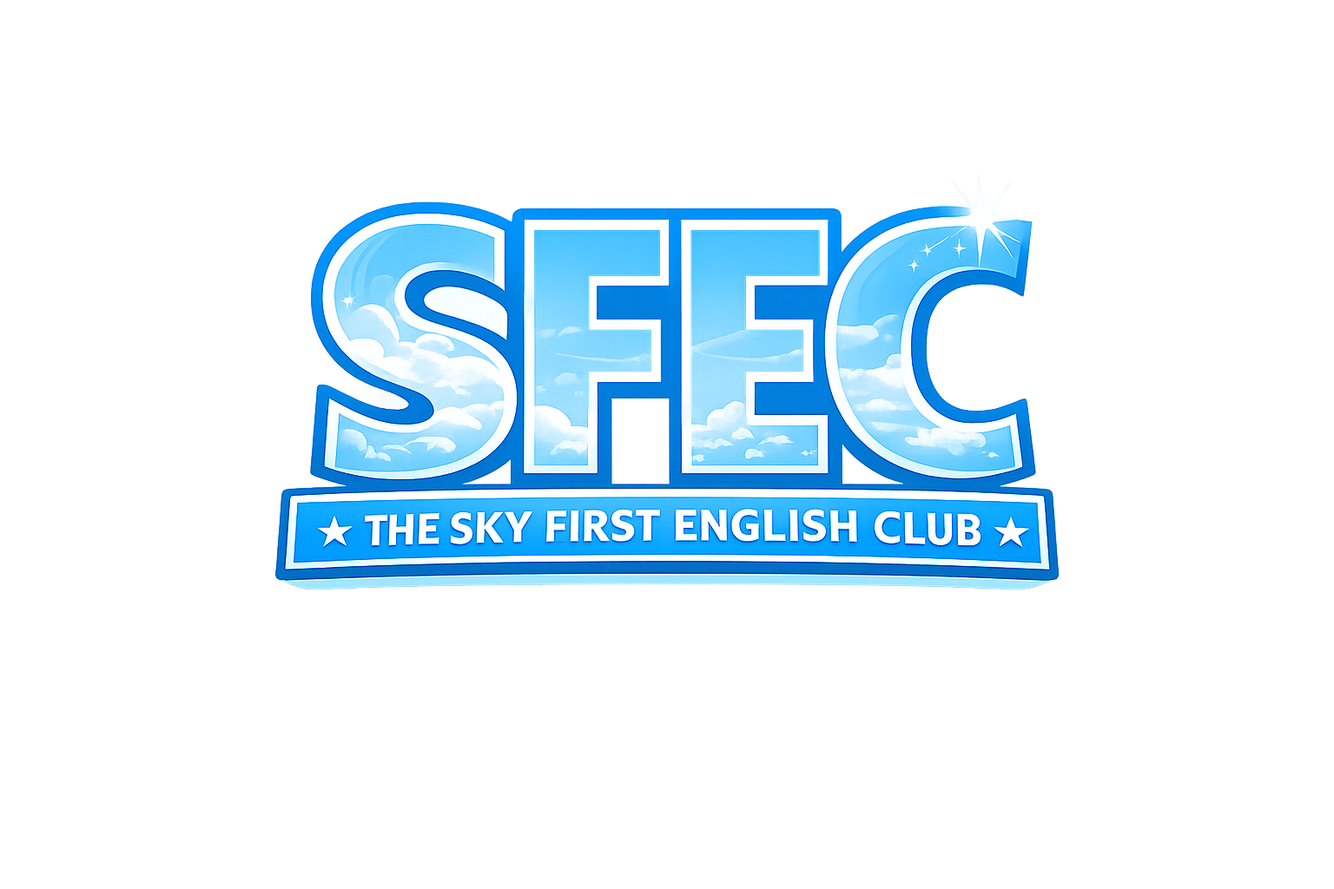
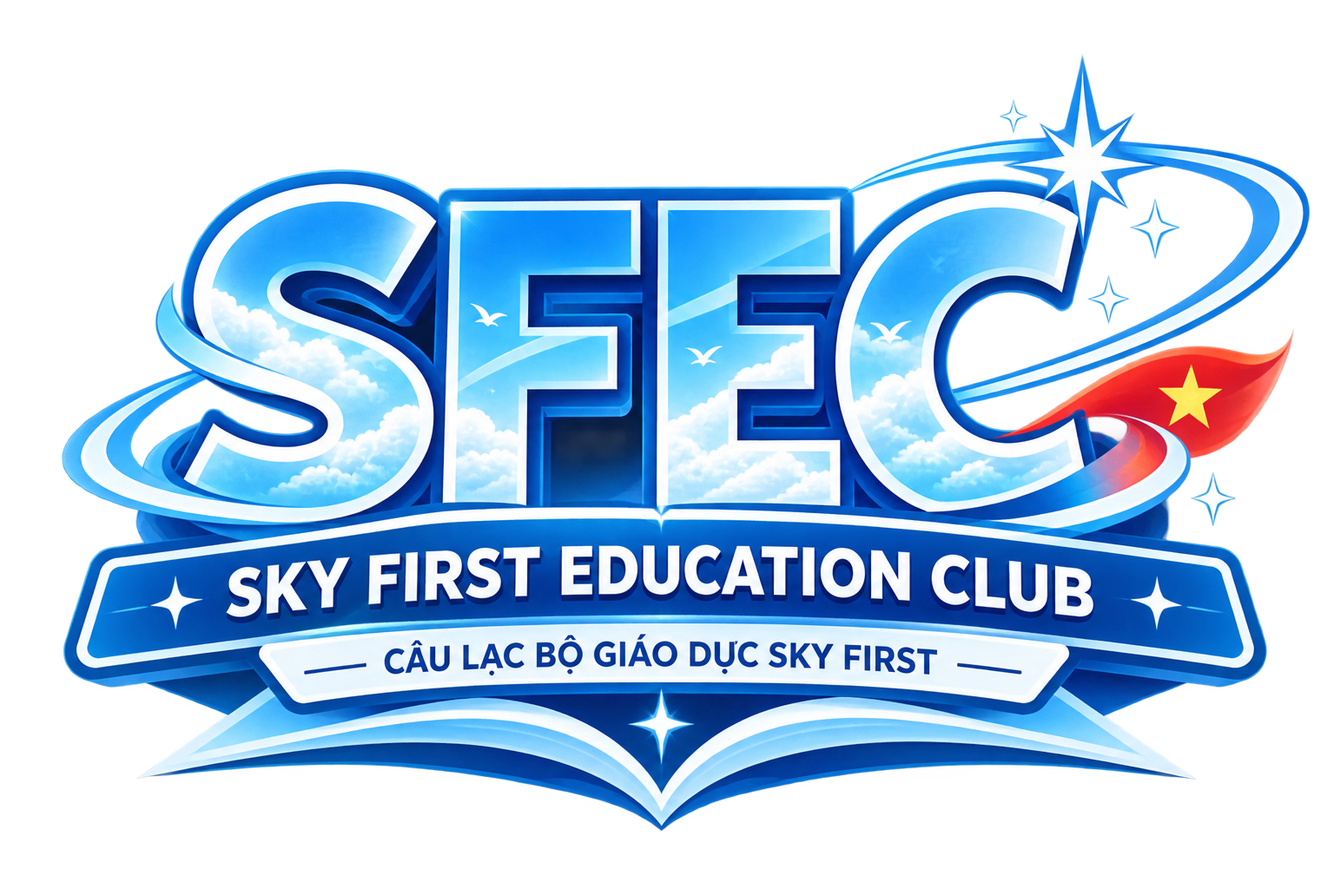
Add files via upload

diff --git a/sfec-main/public/app.js b/sfec-main/public/app.js
@@ -60,20 +60,20 @@ setTheme(localStorage.getItem("sfec_theme")||"light");
 accountBtn.onclick=()=>{if(state.user&&isAdmin(state.user)) location.hash="admin/dashboard"; else location.hash="login"};
 
 function hero(){
-  const title=E(state.config?.hero_title||"Học tiếng Anh. Kết nối trải nghiệm. Phát triển cùng SFEC.");
-  const text=E(state.config?.hero_text||"Website chính thức của The Sky First English Club (SFEC), nơi công bố các chương trình, lớp học, hoạt động tiếng Anh và thông tin xác minh Giấy chứng nhận.");
-  return `<section class="hero hero-official"><div class="hero-copy"><span class="eyebrow">THE SKY FIRST ENGLISH CLUB · SKY FIRST NETWORK</span><div class="hero-org">SFEC · ENGLISH LEARNING & ACTIVITIES</div><h1>${title}</h1><p>${text}</p><p class="hero-owner"><b>SFEC là đơn vị trực thuộc Sky First Network</b>, tập trung tổ chức các chương trình, lớp học và hoạt động liên quan đến Tiếng Anh. SFEC không duy trì cơ cấu Phòng/Ban nội bộ; các công tác hỗ trợ được phối hợp thông qua hệ thống chung của Sky First Network.</p><p class="hero-slogan"><b>${E(state.config?.slogan||"Learn · Connect · Grow")}</b></p><div class="actions"><a class="primary" href="#classes">Khám phá chương trình</a><a class="secondary" href="#lookup">Tra cứu GCN</a><a class="hero-link" href="#about">Giới thiệu SFEC →</a></div></div></section>`;
+  const title=E(state.config?.hero_title||"Kết nối giáo dục. Khơi mở tiềm năng. Phát triển cùng SFEC.");
+  const text=E(state.config?.hero_text||"Không gian giáo dục đa lĩnh vực của SFEC, kết nối người học với chương trình, hoạt động và cơ hội phát triển năng lực.");
+  return `<section class="hero hero-official"><div class="hero-copy"><span class="eyebrow">SKY FIRST EDUCATION CLUB · SKY FIRST NETWORK</span><div class="hero-org">SFEC · EDUCATION & DEVELOPMENT</div><h1>${title}</h1><p>${text}</p><p class="hero-owner"><b>SFEC là đơn vị trực thuộc Sky First Network</b>, phát triển các chương trình giáo dục, lớp học, hoạt động học thuật, kỹ năng và chia sẻ tri thức phù hợp với định hướng chung của Sky First Network.</p><p class="hero-slogan"><b>${E(state.config?.slogan||"Learn · Connect · Grow")}</b></p><div class="actions"><a class="primary" href="#classes">Khám phá chương trình</a><a class="secondary" href="#lookup">Tra cứu GCN</a><a class="hero-link" href="#about">Giới thiệu SFEC →</a></div></div></section>`;
 }
 async function renderHome(){
   try{
     const custom=await api("/api/public/pages/home");
     if(custom?.item?.body_html){const x=custom.item;if(x.seo_title)document.title=x.seo_title;app.innerHTML=hero()+`<section class="cms-public-body">${x.body_html}</section>`;return;}
   }catch{}
-  app.innerHTML=hero()+`<div class="section-kicker" style="margin-top:54px">SFEC HÔM NAY</div><h2 class="section-title" style="margin-top:8px">Tập trung vào Tiếng Anh, tinh gọn trong vận hành</h2><div class="grid3">
-  ${quickCard("📘","Chương trình Tiếng Anh","Theo dõi các lớp học, chuyên đề và chương trình đang được SFEC tổ chức.","#classes")}
-  ${quickCard("✨","Hoạt động","Các hoạt động, workshop và không gian thực hành Tiếng Anh của SFEC.","#events")}
+  app.innerHTML=hero()+`<div class="section-kicker" style="margin-top:54px">SFEC HÔM NAY</div><h2 class="section-title" style="margin-top:8px">Mở rộng cơ hội học tập và phát triển</h2><div class="grid3">
+  ${quickCard("📘","Chương trình giáo dục","Khám phá các chương trình học tập và đào tạo thuộc nhiều lĩnh vực khi được triển khai.","#classes")}
+  ${quickCard("✨","Hoạt động","Workshop, tọa đàm và hoạt động phát triển kỹ năng của SFEC.","#events")}
   ${quickCard("✓","Xác minh GCN","Kiểm tra Giấy chứng nhận được ghi nhận trên hệ thống SFEC.","#lookup")}
-  </div><div class="simple-note"><b>Mô hình vận hành tinh gọn</b><p>SFEC tập trung vào chuyên môn Tiếng Anh và không tổ chức các Phòng/Ban nội bộ. Hành chính, nhân sự, truyền thông, đối ngoại và các nhu cầu hỗ trợ khác được phối hợp với Sky First Network theo phân công.</p></div><h2 class="section-title">Bản tin SFEC</h2><div class="grid" id="homeNews"></div>`;
+  </div><div class="simple-note"><b>Định hướng giáo dục đa lĩnh vực</b><p>SFEC phát triển các chương trình học tập, đào tạo, kỹ năng, hoạt động học thuật và chia sẻ tri thức; các hoạt động cụ thể được công bố theo kế hoạch triển khai thực tế.</p></div><h2 class="section-title">Bản tin SFEC</h2><div class="grid" id="homeNews"></div>`;
   try{const d=await api("/api/public/news");document.getElementById("homeNews").innerHTML=(d.items||[]).slice(0,3).map(newsCard).join("")||`<div class="card muted">Chưa có bản tin.</div>`}catch{}
 }
 function quickCard(icon,title,desc,href){return `<div class="card feature-card"><div class="feature-icon" aria-hidden="true">${icon}</div><h3>${E(title)}</h3><p class="muted">${E(desc)}</p><a class="secondary" href="${href}">Xem chi tiết →</a></div>`}
@@ -82,10 +82,10 @@ function newsBody(body){return E(body||"").replace(/\r?\n/g,"<br>")}
 function newsCard(n){return `<article class="card news-card"><span class="pill">${E((n.published_at||"").slice(0,10))}</span><h3>${E(n.title)}</h3><p class="muted news-excerpt">${E(newsExcerpt(n.body))}</p><a class="secondary" href="#news/${encodeURIComponent(n.id)}">Đọc bản tin →</a></article>`}
 async function renderInfoPage(kind){
   const pages={
-    about:{k:"GIỚI THIỆU SFEC",t:"Một không gian dành cho việc học và sử dụng Tiếng Anh",b:`<div class="article-lead"><p><b>The Sky First English Club (SFEC)</b> là đơn vị trực thuộc <b>Sky First Network (SFN)</b>, tập trung tổ chức các lớp học, chương trình, chuyên đề và hoạt động liên quan đến Tiếng Anh.</p></div><h2>SFEC tập trung vào điều gì?</h2><p>SFEC hướng đến những hoạt động có nội dung rõ ràng, phù hợp với người học và tạo thêm cơ hội thực hành Tiếng Anh. Tùy từng giai đoạn, SFEC có thể triển khai lớp học, hoạt động giao tiếp, phát âm, từ vựng, kỹ năng, chuyên đề học thuật hoặc những chương trình Tiếng Anh phù hợp với định hướng chung.</p><h2>Mô hình tinh gọn</h2><p>SFEC không duy trì cơ cấu Phòng/Ban nội bộ và không vận hành như một tổ chức độc lập. Các công tác hành chính, nhân sự, truyền thông, đối ngoại, công nghệ và hỗ trợ vận hành khi phát sinh được phối hợp thông qua cơ cấu chung của Sky First Network theo phân công.</p><h2>Website SFEC</h2><p>Website này là kênh công khai thông tin chương trình, hoạt động, bản tin và tra cứu Giấy chứng nhận. Website không phải cổng học viên và không cung cấp tài khoản học viên/thành viên. Khu vực đăng nhập chỉ dành cho người được cấp quyền quản trị hệ thống.</p>`},
-    journey:{k:"HÀNH TRÌNH SFEC",t:"Từ một câu lạc bộ đến mô hình chuyên môn tinh gọn",b:`<p>SFEC được xây dựng từ định hướng tạo môi trường học và thực hành Tiếng Anh. Qua quá trình hoạt động, mô hình vận hành được điều chỉnh theo hướng tinh gọn hơn để tập trung nguồn lực cho chuyên môn và trải nghiệm của các chương trình.</p><h2>Giai đoạn hiện tại</h2><p>SFEC tập trung tổ chức các mảng liên quan đến Tiếng Anh, không duy trì hệ thống Phòng/Ban riêng. Những chức năng hỗ trợ không thuộc chuyên môn Tiếng Anh được phối hợp ở cấp Sky First Network.</p>`},
-    values:{k:"ĐỊNH HƯỚNG",t:"Học thật · Thực hành thật · Vận hành tinh gọn",b:`<h2>Chuyên môn là trọng tâm</h2><p>Mỗi chương trình của SFEC cần hướng đến giá trị học tập hoặc thực hành Tiếng Anh cụ thể, có nội dung phù hợp và thông tin rõ ràng.</p><h2>Tinh gọn và phối hợp</h2><p>SFEC không tạo thêm bộ máy nội bộ khi các chức năng đó đã có thể được hỗ trợ bởi Sky First Network. Việc phối hợp được thực hiện theo nhu cầu thực tế của từng chương trình.</p><h2>Thông tin có thể kiểm chứng</h2><p>Các thông tin công khai, chương trình và Giấy chứng nhận cần được ghi nhận rõ ràng trên hệ thống để thuận tiện cho việc tra cứu và xác minh.</p>`},
-    organization:{k:"SFEC & SKY FIRST NETWORK",t:"Một đơn vị chuyên môn trong hệ thống Sky First Network",b:`<p><b>SFEC trực thuộc Sky First Network</b> và tập trung vào các chương trình, lớp học và hoạt động Tiếng Anh.</p><div class="simple-note"><b>SFEC không duy trì cơ cấu Phòng/Ban nội bộ.</b><p>Các nhu cầu về hành chính, nhân sự, truyền thông, đối ngoại, công nghệ và vận hành được phối hợp với các đơn vị chức năng của Sky First Network theo phân công.</p></div><p>Cách tổ chức này giúp SFEC dành nguồn lực cho chuyên môn thay vì xây dựng một bộ máy vận hành độc lập.</p>`}
+    about:{k:"GIỚI THIỆU SFEC",t:"Một không gian dành cho việc học và sử dụng Tiếng Anh",b:`<div class="article-lead"><p><b>Sky First Education Club (SFEC)</b> là đơn vị thuộc hệ sinh thái <b>Sky First Network (SFN)</b>, hướng đến phát triển môi trường học tập, chương trình giáo dục, kỹ năng và hoạt động chia sẻ tri thức.</p></div><h2>SFEC tập trung vào điều gì?</h2><p>SFEC hướng đến các hoạt động có mục tiêu rõ ràng, phù hợp với người học và tạo cơ hội phát triển kiến thức, kỹ năng, năng lực cá nhân. Các lĩnh vực có thể bao gồm lớp học, đào tạo, kỹ năng, workshop, tọa đàm, hoạt động học thuật và chương trình tiếng Anh.</p><h2>Mô hình tinh gọn</h2><p>SFEC không duy trì cơ cấu Phòng/Ban nội bộ và không vận hành như một tổ chức độc lập. Các công tác hành chính, nhân sự, truyền thông, đối ngoại, công nghệ và hỗ trợ vận hành khi phát sinh được phối hợp thông qua cơ cấu chung của Sky First Network theo phân công.</p><h2>Website SFEC</h2><p>Website này là kênh công khai thông tin chương trình, hoạt động, bản tin và tra cứu Giấy chứng nhận. Website không phải cổng học viên và không cung cấp tài khoản học viên/thành viên. Khu vực đăng nhập chỉ dành cho người được cấp quyền quản trị hệ thống.</p>`},
+    journey:{k:"HÀNH TRÌNH SFEC",t:"Từ một câu lạc bộ đến mô hình chuyên môn tinh gọn",b:`<p>SFEC được định hướng là không gian giáo dục đa lĩnh vực, kết nối người học với các chương trình, hoạt động và cơ hội phát triển phù hợp theo từng giai đoạn.</p><h2>Giai đoạn hiện tại</h2><p>SFEC phát triển các chương trình giáo dục đa lĩnh vực, đồng thời phối hợp với Sky First Network trong những hoạt động hỗ trợ và vận hành theo phân công.</p>`},
+    values:{k:"ĐỊNH HƯỚNG",t:"Học thật · Thực hành thật · Vận hành tinh gọn",b:`<h2>Chuyên môn là trọng tâm</h2><p>Mỗi chương trình của SFEC cần hướng đến giá trị học tập hoặc phát triển năng lực cụ thể, có nội dung phù hợp và thông tin rõ ràng.</p><h2>Tinh gọn và phối hợp</h2><p>SFEC không tạo thêm bộ máy nội bộ khi các chức năng đó đã có thể được hỗ trợ bởi Sky First Network. Việc phối hợp được thực hiện theo nhu cầu thực tế của từng chương trình.</p><h2>Thông tin có thể kiểm chứng</h2><p>Các thông tin công khai, chương trình và Giấy chứng nhận cần được ghi nhận rõ ràng trên hệ thống để thuận tiện cho việc tra cứu và xác minh.</p>`},
+    organization:{k:"SFEC & SKY FIRST NETWORK",t:"Một đơn vị chuyên môn trong hệ thống Sky First Network",b:`<p><b>SFEC thuộc hệ sinh thái Sky First Network</b> và phát triển các chương trình giáo dục đa lĩnh vực.</p><div class="simple-note"><b>SFEC không duy trì cơ cấu Phòng/Ban nội bộ.</b><p>Các nhu cầu về hành chính, nhân sự, truyền thông, đối ngoại, công nghệ và vận hành được phối hợp với các đơn vị chức năng của Sky First Network theo phân công.</p></div><p>Cách tổ chức này giúp SFEC dành nguồn lực cho chuyên môn thay vì xây dựng một bộ máy vận hành độc lập.</p>`}
   };
   const x=pages[kind]||pages.about;
   app.innerHTML=`<article class="info-page longform"><div class="section-kicker">${x.k}</div><h1>${x.t}</h1><div class="info-copy">${x.b}</div><div class="article-cta"><div><b>Khám phá SFEC</b><p class="muted">Xem chương trình, hoạt động hoặc xác minh Giấy chứng nhận.</p></div><div class="actions"><a class="primary" href="#classes">Chương trình</a><a class="secondary" href="#lookup">Tra cứu GCN</a></div></div></article>`;
@@ -164,7 +164,7 @@ async function mountTurnstile(){
 }
 
 async function renderClasses(){
-  const d=await api("/api/public/classes");app.innerHTML=`<div class="section-kicker">CHƯƠNG TRÌNH TIẾNG ANH</div><h1>Chương trình & Lớp học SFEC</h1><p class="muted">Thông tin các chương trình, lớp học và nội dung Tiếng Anh đang được SFEC công bố.</p><div class="grid">${(d.items||[]).map(c=>`<div class="card"><span class="pill">${E(c.level||"SFEC")}</span><h3>${E(c.title)}</h3><p class="muted">${E(c.unit_code||"The Sky First English Club")}</p><span class="status">${E(c.status)}</span></div>`).join("")||"<div class='card'>Chưa có chương trình được công bố.</div>"}</div>`;
+  const d=await api("/api/public/classes");app.innerHTML=`<div class="section-kicker">CHƯƠNG TRÌNH GIÁO DỤC</div><h1>Chương trình & Lớp học SFEC</h1><p class="muted">Thông tin các chương trình và lớp học được SFEC công bố theo lĩnh vực giáo dục.</p><div class="grid">${(d.items||[]).map(c=>`<div class="card"><span class="pill">${E(c.level||"SFEC")}</span><h3>${E(c.title)}</h3><p class="muted">${E(c.unit_code||"SFEC – Sky First Education Club")}</p><span class="status">${E(c.status)}</span></div>`).join("")||"<div class='card'>Chưa có chương trình được công bố.</div>"}</div>`;
 }
 async function renderEvents(){
   const d=await api("/api/public/events");app.innerHTML=`<div class="section-kicker">HOẠT ĐỘNG SFEC</div><h1>Hoạt động Tiếng Anh</h1><p class="muted">Các hoạt động, workshop, chuyên đề và không gian thực hành Tiếng Anh được SFEC công bố.</p><div class="grid">${(d.items||[]).map(x=>`<div class="card"><span class="pill">SFEC</span><h3>${E(x.title)}</h3><p class="muted">${fmt(x.start_at)}</p><span class="status">${E(x.status)}</span></div>`).join("")||"<div class='card'>Chưa có hoạt động được công bố.</div>"}</div>`;
@@ -175,11 +175,11 @@ async function renderNews(id=null){
   app.innerHTML=`<div class="section-kicker">TIN TỨC & CẬP NHẬT</div><h1>Bản tin SFEC</h1><p class="muted">Thông tin lớp học, hoạt động, chương trình và những cập nhật chính thức từ SFEC.</p><div class="grid news-grid">${(d.items||[]).map(newsCard).join("")||"<div class='card'>Chưa có tin.</div>"}</div>`;
 }
 function renderLookup(){
-  app.innerHTML=`<section class="verify-hero"><div><div class="section-kicker">TRA CỨU & XÁC MINH</div><h1>Xác thực Giấy chứng nhận <span>của SFEC</span></h1><p>Kiểm tra thông tin Giấy chứng nhận được ghi nhận trên hệ thống The Sky First English Club.</p><div class="verify-benefits"><span>◈ <b>Thông tin chính xác</b></span><span>▣ <b>Dữ liệu có kiểm chứng</b></span><span>⚡ <b>Xác minh nhanh chóng</b></span></div></div><div class="verify-art"><div class="cert-sheet">SFEC<br><strong>CERTIFICATE</strong><div></div><div></div><div></div><b>✓</b></div><div class="magnifier"></div></div></section><section class="verify-panel"><aside><div class="verify-tab active"><b>▤</b><span><strong>Xác minh<br>Giấy chứng nhận</strong><small>Nhập mã GCN để tra cứu</small></span></div><div class="verify-tab"><b>⌗</b><span><strong>Quét mã QR</strong><small>Sử dụng mã QR trên GCN</small></span></div><div class="verify-help">ⓘ Mã Giấy chứng nhận thường được in trên GCN hoặc gửi kèm thông tin phát hành.</div></aside><div class="verify-main"><div class="lookup-label">NHẬP MÃ GIẤY CHỨNG NHẬN</div><h2>Tra cứu thông tin GCN</h2><p class="muted">Nhập chính xác mã Giấy chứng nhận để kiểm tra thông tin xác minh công khai.</p><form id="lookupCert" class="verify-form"><div class="verify-input"><span>▤</span><input name="code" required placeholder="Ví dụ: 001/GCN-SFEC/2026"></div><button class="primary">⌕ &nbsp; Xác minh →</button></form><div class="verify-format">Định dạng mã GCN: <b>XXX/GCN-SFEC/NĂM</b> &nbsp; | &nbsp; Ví dụ: 001/GCN-SFEC/2026</div><div class="verify-trust">♢ Thông tin hiển thị được truy xuất trực tiếp từ hệ thống SFEC và có giá trị xác minh công khai.</div><div id="certResult"></div></div></section>`;
-  document.getElementById("lookupCert").onsubmit=async e=>{e.preventDefault();const f=new FormData(e.target);try{const d=await api(`/api/lookup/certificate?code=${encodeURIComponent(f.get("code"))}`);const c=d.item,m=J(c.metadata_json)||{};const valid=c.status!=="revoked";document.getElementById("certResult").innerHTML=`<div class="lookup-result ${valid?'valid':'revoked'}"><div class="verify-head"><span class="verify-dot"></span><div><small>TRẠNG THÁI XÁC MINH</small><strong>${valid?'Giấy chứng nhận hợp lệ':'Giấy chứng nhận đã thu hồi'}</strong></div></div><dl><div><dt>Mã Giấy chứng nhận</dt><dd>${E(c.code)}</dd></div><div><dt>Họ và tên</dt><dd>${E(c.full_name)}</dd></div><div><dt>Nội dung ghi nhận</dt><dd>${E(c.content)}</dd></div><div><dt>Đơn vị tổ chức</dt><dd>${E(m.unit_name||'The Sky First English Club (SFEC)')}</dd></div><div><dt>Đơn vị chủ quản</dt><dd>${E(m.owner_name||'Sky First Network (SFN)')}</dd></div><div><dt>Ngày cấp</dt><dd>${fmt(c.issued_at)}</dd></div>${m.registry_no?`<div><dt>Số vào sổ</dt><dd>${E(m.registry_no)}</dd></div>`:''}<div><dt>Trạng thái</dt><dd>${E(c.status)}</dd></div></dl></div>`}catch{document.getElementById("certResult").innerHTML="<div class='notice warn'>Chưa tìm thấy Giấy chứng nhận với mã này. Vui lòng kiểm tra lại mã đã nhập.</div>"}};
+  app.innerHTML=`<section class="verify-hero"><div><div class="section-kicker">TRA CỨU & XÁC MINH</div><h1>Xác thực Giấy chứng nhận <span>của SFEC</span></h1><p>Kiểm tra thông tin Giấy chứng nhận được ghi nhận trên hệ thống SFEC – Sky First Education Club.</p><div class="verify-benefits"><span>◈ <b>Thông tin chính xác</b></span><span>▣ <b>Dữ liệu có kiểm chứng</b></span><span>⚡ <b>Xác minh nhanh chóng</b></span></div></div><div class="verify-art"><div class="cert-sheet">SFEC<br><strong>CERTIFICATE</strong><div></div><div></div><div></div><b>✓</b></div><div class="magnifier"></div></div></section><section class="verify-panel"><aside><div class="verify-tab active"><b>▤</b><span><strong>Xác minh<br>Giấy chứng nhận</strong><small>Nhập mã GCN để tra cứu</small></span></div><div class="verify-tab"><b>⌗</b><span><strong>Quét mã QR</strong><small>Sử dụng mã QR trên GCN</small></span></div><div class="verify-help">ⓘ Mã Giấy chứng nhận thường được in trên GCN hoặc gửi kèm thông tin phát hành.</div></aside><div class="verify-main"><div class="lookup-label">NHẬP MÃ GIẤY CHỨNG NHẬN</div><h2>Tra cứu thông tin GCN</h2><p class="muted">Nhập chính xác mã Giấy chứng nhận để kiểm tra thông tin xác minh công khai.</p><form id="lookupCert" class="verify-form"><div class="verify-input"><span>▤</span><input name="code" required placeholder="Ví dụ: 001/GCN-SFEC/2026"></div><button class="primary">⌕ &nbsp; Xác minh →</button></form><div class="verify-format">Định dạng mã GCN: <b>XXX/GCN-SFEC/NĂM</b> &nbsp; | &nbsp; Ví dụ: 001/GCN-SFEC/2026</div><div class="verify-trust">♢ Thông tin hiển thị được truy xuất trực tiếp từ hệ thống SFEC và có giá trị xác minh công khai.</div><div id="certResult"></div></div></section>`;
+  document.getElementById("lookupCert").onsubmit=async e=>{e.preventDefault();const f=new FormData(e.target);try{const d=await api(`/api/lookup/certificate?code=${encodeURIComponent(f.get("code"))}`);const c=d.item,m=J(c.metadata_json)||{};const valid=c.status!=="revoked";document.getElementById("certResult").innerHTML=`<div class="lookup-result ${valid?'valid':'revoked'}"><div class="verify-head"><span class="verify-dot"></span><div><small>TRẠNG THÁI XÁC MINH</small><strong>${valid?'Giấy chứng nhận hợp lệ':'Giấy chứng nhận đã thu hồi'}</strong></div></div><dl><div><dt>Mã Giấy chứng nhận</dt><dd>${E(c.code)}</dd></div><div><dt>Họ và tên</dt><dd>${E(c.full_name)}</dd></div><div><dt>Nội dung ghi nhận</dt><dd>${E(c.content)}</dd></div><div><dt>Đơn vị tổ chức</dt><dd>${E(m.unit_name||'SFEC – Sky First Education Club (SFEC)')}</dd></div><div><dt>Đơn vị chủ quản</dt><dd>${E(m.owner_name||'Sky First Network (SFN)')}</dd></div><div><dt>Ngày cấp</dt><dd>${fmt(c.issued_at)}</dd></div>${m.registry_no?`<div><dt>Số vào sổ</dt><dd>${E(m.registry_no)}</dd></div>`:''}<div><dt>Trạng thái</dt><dd>${E(c.status)}</dd></div></dl></div>`}catch{document.getElementById("certResult").innerHTML="<div class='notice warn'>Chưa tìm thấy Giấy chứng nhận với mã này. Vui lòng kiểm tra lại mã đã nhập.</div>"}};
   const auto=new URLSearchParams(location.search).get("cert_lookup");if(auto){document.querySelector('#lookupCert [name="code"]').value=auto;document.getElementById("lookupCert").requestSubmit();}
 }
-function renderContact(){app.innerHTML=`<article class="info-page"><div class="section-kicker">LIÊN HỆ</div><h1>Kết nối với SFEC</h1><div class="grid2"><div class="card"><h3>The Sky First English Club</h3><p>SFEC tập trung tổ chức các chương trình, lớp học và hoạt động liên quan đến Tiếng Anh.</p><p><b>Email:</b> sfec@skyfirst.io.vn<br><b>Website:</b> sfec.skyfirst.io.vn</p></div><div class="card"><h3>Hỗ trợ vận hành</h3><p>Các nội dung hành chính, nhân sự, truyền thông, đối ngoại và hỗ trợ hệ thống được phối hợp thông qua Sky First Network theo phân công.</p><a class="secondary" href="https://skyfirst.io.vn" target="_blank" rel="noopener">Sky First Network →</a></div></div></article>`;}
+function renderContact(){app.innerHTML=`<article class="info-page"><div class="section-kicker">LIÊN HỆ</div><h1>Kết nối với SFEC</h1><div class="grid2"><div class="card"><h3>SFEC – Sky First Education Club</h3><p>SFEC tập trung tổ chức các chương trình, lớp học và hoạt động liên quan đến Tiếng Anh.</p><p><b>Email:</b> sfec@skyfirst.io.vn<br><b>Website:</b> sfec.skyfirst.io.vn</p></div><div class="card"><h3>Hỗ trợ vận hành</h3><p>Các nội dung hành chính, nhân sự, truyền thông, đối ngoại và hỗ trợ hệ thống được phối hợp thông qua Sky First Network theo phân công.</p><a class="secondary" href="https://skyfirst.io.vn" target="_blank" rel="noopener">Sky First Network →</a></div></div></article>`;}
 
 function renderLogin(){
   app.innerHTML=`<div class="admin-login-public"><div class="section-kicker">SFEC SYSTEM</div><h1>Đăng nhập Quản trị</h1><p class="muted">Khu vực dành riêng cho tài khoản được cấp quyền quản trị hệ thống SFEC.</p><div id="loginPanel" style="max-width:650px;margin:18px auto"></div></div>`;
@@ -536,7 +536,7 @@ window.saveModules=()=>{const items=state.admin.modules.map(m=>({key:m.key,enabl
 
 async function adminSettings(main){
   const d=await api("/api/admin/settings"),map=Object.fromEntries((d.items||[]).map(x=>[x.key,x.value]));state.admin.settings=map;
-  main.innerHTML=`<h1>Cài đặt hệ thống</h1><div class="card"><div class="field"><label>Tên hệ thống</label><input id="sAppName" value="${E(map.app_name||"")}"></div><div class="field"><label>Email nhận toàn bộ đăng ký</label><input id="sReceiver" value="${E(map.receiver_email||"sfec@skyfirst.io.vn")}"></div><div class="field"><label>Hotline/Zalo</label><input id="sHotline" value="${E(map.hotline||"0924 910 210")}"></div><div class="field"><label>Website</label><input id="sWebsite" value="${E(map.website||"")}"></div><div class="field"><label>Châm ngôn</label><input id="sSlogan" value="${E(map.brand_slogan||"")}"></div><div class="field"><label>Tiêu đề Hero</label><input id="sHeroTitle" value="${E(map.hero_title||"Học tiếng Anh. Kết nối cộng đồng. Vươn cao cùng SFEC.")}"></div><div class="field"><label>Mô tả Hero</label><textarea id="sHeroText">${E(map.hero_text||"Cổng học tập và hoạt động dành riêng cho The Sky First English Club.")}</textarea></div><div class="field"><label>Ảnh bìa Hero (URL hoặc /api/files/...)</label><input id="sHeroCover" value="${E(map.hero_cover_url||"/assets/sfec-cover.png")}"></div><div class="field"><label>Thời hạn lưu hồ sơ không phù hợp (ngày)</label><input id="sRetention" type="number" value="${E(map.rejected_application_retention_days||365)}"></div><div class="check"><input id="sMaintenance" type="checkbox" ${map.maintenance_mode?"checked":""}><label>Bật chế độ bảo trì trang công khai</label></div><button class="primary" onclick="saveSettings()">Lưu cài đặt</button></div>`;
+  main.innerHTML=`<h1>Cài đặt hệ thống</h1><div class="card"><div class="field"><label>Tên hệ thống</label><input id="sAppName" value="${E(map.app_name||"")}"></div><div class="field"><label>Email nhận toàn bộ đăng ký</label><input id="sReceiver" value="${E(map.receiver_email||"sfec@skyfirst.io.vn")}"></div><div class="field"><label>Hotline/Zalo</label><input id="sHotline" value="${E(map.hotline||"0924 910 210")}"></div><div class="field"><label>Website</label><input id="sWebsite" value="${E(map.website||"")}"></div><div class="field"><label>Châm ngôn</label><input id="sSlogan" value="${E(map.brand_slogan||"")}"></div><div class="field"><label>Tiêu đề Hero</label><input id="sHeroTitle" value="${E(map.hero_title||"Kết nối giáo dục. Khơi mở tiềm năng. Phát triển cùng SFEC.")}"></div><div class="field"><label>Mô tả Hero</label><textarea id="sHeroText">${E(map.hero_text||"Cổng học tập và hoạt động dành riêng cho SFEC – Sky First Education Club.")}</textarea></div><div class="field"><label>Ảnh bìa Hero (URL hoặc /api/files/...)</label><input id="sHeroCover" value="${E(map.hero_cover_url||"/assets/sfec-cover.png")}"></div><div class="field"><label>Thời hạn lưu hồ sơ không phù hợp (ngày)</label><input id="sRetention" type="number" value="${E(map.rejected_application_retention_days||365)}"></div><div class="check"><input id="sMaintenance" type="checkbox" ${map.maintenance_mode?"checked":""}><label>Bật chế độ bảo trì trang công khai</label></div><button class="primary" onclick="saveSettings()">Lưu cài đặt</button></div>`;
 }
 window.saveSettings=()=>api("/api/admin/settings",{method:"PUT",body:{items:{app_name:document.getElementById("sAppName").value,receiver_email:document.getElementById("sReceiver").value,hotline:document.getElementById("sHotline").value,website:document.getElementById("sWebsite").value,brand_slogan:document.getElementById("sSlogan").value,hero_title:document.getElementById("sHeroTitle").value,hero_text:document.getElementById("sHeroText").value,hero_cover_url:document.getElementById("sHeroCover").value,rejected_application_retention_days:Number(document.getElementById("sRetention").value)||365,maintenance_mode:document.getElementById("sMaintenance").checked}}}).then(async()=>{toast("Đã lưu cài đặt.");await loadConfig()}).catch(e=>toast(errorText(e),"bad"))
 

diff --git a/sfec-main/public/index.html b/sfec-main/public/index.html
@@ -1,5 +1,5 @@
-<!doctype html><html lang="vi"><head><meta charset="utf-8"><meta name="viewport" content="width=device-width,initial-scale=1"><meta name="theme-color" content="#0b6bdc"><title>SFEC — The Sky First English Club</title><meta name="description" content="Website chính thức của The Sky First English Club (SFEC) — chương trình, hoạt động tiếng Anh, bản tin và xác minh Giấy chứng nhận."><meta property="og:title" content="SFEC — The Sky First English Club"><meta property="og:description" content="Learn English. Grow together. Reach higher."><meta property="og:image" content="/assets/sfec-wordmark.png"><link rel="icon" type="image/png" href="/assets/sfec-logo.png"><link rel="apple-touch-icon" href="/assets/sfec-logo.png"><link rel="manifest" href="/manifest.webmanifest"><link rel="stylesheet" href="/styles.css"></head><body>
+<!doctype html><html lang="vi"><head><meta charset="utf-8"><meta name="viewport" content="width=device-width,initial-scale=1"><meta name="theme-color" content="#0b6bdc"><title>SFEC — Sky First Education Club</title><meta name="description" content="Website chính thức của SFEC – Sky First Education Club, câu lạc bộ giáo dục đa lĩnh vực thuộc Sky First Network."><meta property="og:title" content="SFEC — Sky First Education Club"><meta property="og:description" content="Learn · Connect · Grow"><meta property="og:image" content="/assets/sfec-wordmark.png"><link rel="icon" type="image/png" href="/assets/sfec-logo.png"><link rel="apple-touch-icon" href="/assets/sfec-logo.png"><link rel="manifest" href="/manifest.webmanifest"><link rel="stylesheet" href="/styles.css"></head><body>
 <header class="top"><a class="brand" href="#home"><img src="/assets/sfec-wordmark.png" alt="SFEC"></a><nav class="nav"><a href="#home">Trang chủ</a><a href="#about">Giới thiệu</a><a href="#classes">Chương trình</a><a href="#events">Hoạt động</a><a href="#news">Bản tin</a><a href="#lookup">Tra cứu</a><a href="#contact">Liên hệ</a></nav><button class="iconbtn theme-toggle" id="themeBtn" title="Đổi giao diện" aria-label="Đổi giao diện"><span></span></button><button class="primary admin-entry" id="accountBtn">Quản trị</button></header>
 <main class="container" id="app"><div class="loading">Đang mở SFEC…</div></main><div id="modalRoot"></div>
-<footer class="footer footer-rich"><div class="footer-main"><div class="footer-brand"><img src="/assets/sfec-logo.png" alt="SFEC"><div><b>The Sky First English Club (SFEC)</b><p>Đơn vị trực thuộc Sky First Network, tập trung tổ chức các chương trình, lớp học và hoạt động liên quan đến Tiếng Anh.</p></div></div><div><b>Khám phá</b><a href="#about">Giới thiệu SFEC</a><a href="#classes">Chương trình</a><a href="#events">Hoạt động</a><a href="#news">Bản tin</a><a href="#lookup">Tra cứu GCN</a></div><div><b>Sky First Network</b><a href="https://skyfirst.io.vn" target="_blank" rel="noopener">Trang thông tin Sky First</a><a href="https://tnv.skyfirst.io.vn" target="_blank" rel="noopener">Cổng Tình nguyện viên</a><a href="https://member.skyfirst.io.vn" target="_blank" rel="noopener">Trung tâm Thành viên số</a></div><div><b>Liên hệ</b><p>Email: sfec@skyfirst.io.vn<br>Website: sfec.skyfirst.io.vn<br>Các công tác hành chính, nhân sự, truyền thông và đối ngoại được phối hợp thông qua Sky First Network.</p></div></div><div class="footer-bottom"><span>© 2026 The Sky First English Club (SFEC) · Sky First Network.</span><span><a href="#terms">Điều khoản sử dụng</a> · <a href="#privacy">Chính sách quyền riêng tư</a></span></div></footer>
+<footer class="footer footer-rich"><div class="footer-main"><div class="footer-brand"><img src="/assets/sfec-logo.png" alt="SFEC"><div><b>Sky First Education Club (SFEC)</b><p>Đơn vị thuộc hệ sinh thái Sky First Network, phát triển các chương trình học tập, đào tạo, kỹ năng và hoạt động giáo dục.</p></div></div><div><b>Khám phá</b><a href="#about">Giới thiệu SFEC</a><a href="#classes">Chương trình</a><a href="#events">Hoạt động</a><a href="#news">Bản tin</a><a href="#lookup">Tra cứu GCN</a></div><div><b>Sky First Network</b><a href="https://skyfirst.io.vn" target="_blank" rel="noopener">Trang thông tin Sky First</a><a href="https://tnv.skyfirst.io.vn" target="_blank" rel="noopener">Cổng Tình nguyện viên</a><a href="https://member.skyfirst.io.vn" target="_blank" rel="noopener">Trung tâm Thành viên số</a></div><div><b>Liên hệ</b><p>Email: sfec@skyfirst.io.vn<br>Website: sfec.skyfirst.io.vn<br>Các công tác hành chính, nhân sự, truyền thông và đối ngoại được phối hợp thông qua Sky First Network.</p></div></div><div class="footer-bottom"><span>© 2026 Sky First Education Club (SFEC) · Sky First Network.</span><span><a href="#terms">Điều khoản sử dụng</a> · <a href="#privacy">Chính sách quyền riêng tư</a></span></div></footer>
 <script type="module" src="/app.js"></script></body></html>

diff --git a/sfec-main/src/public.js b/sfec-main/src/public.js
@@ -76,15 +76,15 @@ export async function publicRoute(request,env,url){
     const mods=await env.DB.prepare("SELECT key,name,category,enabled,sort_order,description FROM modules ORDER BY sort_order").all();
     const forms=await env.DB.prepare("SELECT id,name,prefix,description,audience,min_age,version FROM forms WHERE enabled=1 ORDER BY rowid").all();
     return json({
-      app_name:await getSetting(env,"app_name","The Sky First English Club"),
-      app_short_name:await getSetting(env,"app_short_name","The Sky First English Club"),
+      app_name:await getSetting(env,"app_name","Sky First Education Club"),
+      app_short_name:await getSetting(env,"app_short_name","Sky First Education Club"),
       app_url:env.APP_URL||await getSetting(env,"app_url",""),
       website:await getSetting(env,"website","https://www.skyfirst.io.vn"),
       hotline:await getSetting(env,"hotline","0924 910 210"),
       receiver_email:await getSetting(env,"receiver_email","sfec@skyfirst.io.vn"),
       slogan:await getSetting(env,"brand_slogan",""),
       hero_title:await getSetting(env,"hero_title","Kết nối giáo dục. Phát triển cộng đồng."),
-      hero_text:await getSetting(env,"hero_text","Một cổng chung cho Thành viên, Core Team, Tình nguyện viên, Học sinh/Học viên, lớp học, hoạt động, hồ sơ, GCN/GXN và quản trị The Sky First English Club."),
+      hero_text:await getSetting(env,"hero_text","Không gian giáo dục đa lĩnh vực của SFEC, kết nối người học với chương trình, hoạt động, hồ sơ và thông tin xác minh giấy chứng nhận."),
       hero_cover_url:await getSetting(env,"hero_cover_url","/assets/sfec-cover.png"),
       maintenance_mode:await getSetting(env,"maintenance_mode",false),
       modules:mods.results||[],

diff --git a/sfec-main/public/email-templates/submission-confirmation.html b/sfec-main/public/email-templates/submission-confirmation.html
@@ -17,10 +17,10 @@
   <table role="presentation" width="100%" cellspacing="0" cellpadding="0">
     <tr>
       <td style="padding:26px 30px 22px;vertical-align:middle;">
-        <img src="https://sfec.skyfirst.io.vn/assets/logo-sfec-email.png" alt="SFEC - The Sky First English Club" style="display:block;max-width:300px;width:100%;height:auto;">
+        <img src="https://sfec.skyfirst.io.vn/assets/logo-sfec-email.png" alt="SFEC - Sky First Education Club" style="display:block;max-width:300px;width:100%;height:auto;">
       </td>
       <td align="right" style="padding:26px 30px 22px;vertical-align:middle;color:#fff;">
-        <div style="font-size:13px;letter-spacing:1.4px;font-weight:800;opacity:.92;">THE SKY FIRST ENGLISH CLUB</div>
+        <div style="font-size:13px;letter-spacing:1.4px;font-weight:800;opacity:.92;">SKY FIRST EDUCATION CLUB</div>
         <div style="margin-top:10px;font-size:15px;line-height:1.6;font-weight:700;">Learn • Connect • Grow • Create Impact</div>
       </td>
     </tr>
@@ -168,7 +168,7 @@
     <img src="https://sfec.skyfirst.io.vn/assets/logo-sfec-email.png" alt="SFEC" style="display:block;max-width:220px;width:100%;height:auto;">
   </td>
   <td style="vertical-align:middle;padding-left:22px;">
-    <div style="font-size:18px;font-weight:800;">The Sky First English Club</div>
+    <div style="font-size:18px;font-weight:800;">Sky First Education Club</div>
     <div style="font-size:13px;line-height:1.7;color:#d8e7ff;margin-top:7px;">Learn • Connect • Grow • Create Impact</div>
     <div style="font-size:13px;line-height:1.75;color:#d8e7ff;margin-top:11px;">
       Email tự động: sfec@skyfirst.io.vn<br>

diff --git a/sfec-main/src/email.js b/sfec-main/src/email.js
@@ -17,7 +17,7 @@ export async function sendEmail(env,{to,subject,html,text,templateKey=""}){
         method:"POST",
         headers:{"content-type":"application/json","authorization":`Bearer ${env.RESEND_API_KEY}`},
         body:JSON.stringify({
-          from:env.MAIL_FROM||"SFEC · The Sky First English Club <sfec@skyfirst.io.vn>",
+          from:env.MAIL_FROM||"SFEC · Sky First Education Club <sfec@skyfirst.io.vn>",
           to:[to],subject,html,text
         })
       });

diff --git a/sfec-main/src/index.js b/sfec-main/src/index.js
@@ -88,7 +88,7 @@ async function handle(request,env,ctx){
   }
 
   if(url.pathname==="/api/health") return json({
-    ok:true,app:"The Sky First English Club",production:true,time:new Date().toISOString(),
+    ok:true,app:"Sky First Education Club",production:true,time:new Date().toISOString(),
     database:!!env.DB,storage:!!env.FILES
   });
 

diff --git a/sfec-main/SFEC_REBRAND_IMPLEMENTATION_NOTES.md b/sfec-main/SFEC_REBRAND_IMPLEMENTATION_NOTES.md
@@ -1,0 +1,14 @@
+# SFEC Rebrand Implementation Notes
+
+## Changes in this source bundle
+- Updated active public-site metadata/footer and homepage messaging to **SFEC – Sky First Education Club**.
+- Repositioned homepage copy toward multi-field education while retaining English classes as one possible activity.
+- Updated API fallback branding, email sender identity/template text, package description, and PWA manifest.
+- Installed the user-supplied logo as `public/assets/sfec-wordmark.png`, `public/assets/logo-sfec-email.png`, and `public/assets/sfec-approved-logo.png`. The existing square favicon asset was preserved because the supplied logo is wide.
+- Kept Worker entrypoint, D1/R2 bindings, database ID, auth/permission modules, and migration history unchanged.
+
+## Limitations / before deployment
+- No production deployment or remote D1/R2 operation was performed.
+- Database settings/CMS content and historical seed/migration records may still contain old branding. They were not edited because production state cannot be inferred safely from this ZIP. Back up the database and review active CMS settings through authorized admin tools.
+- Run `npm run validate`, then staging smoke tests for login, permissions, forms, CMS, email, D1 and R2 before deployment.
+- The supplied wide logo is used for wordmark/email. A separate square icon was not provided, so the existing square favicon remains unchanged.
